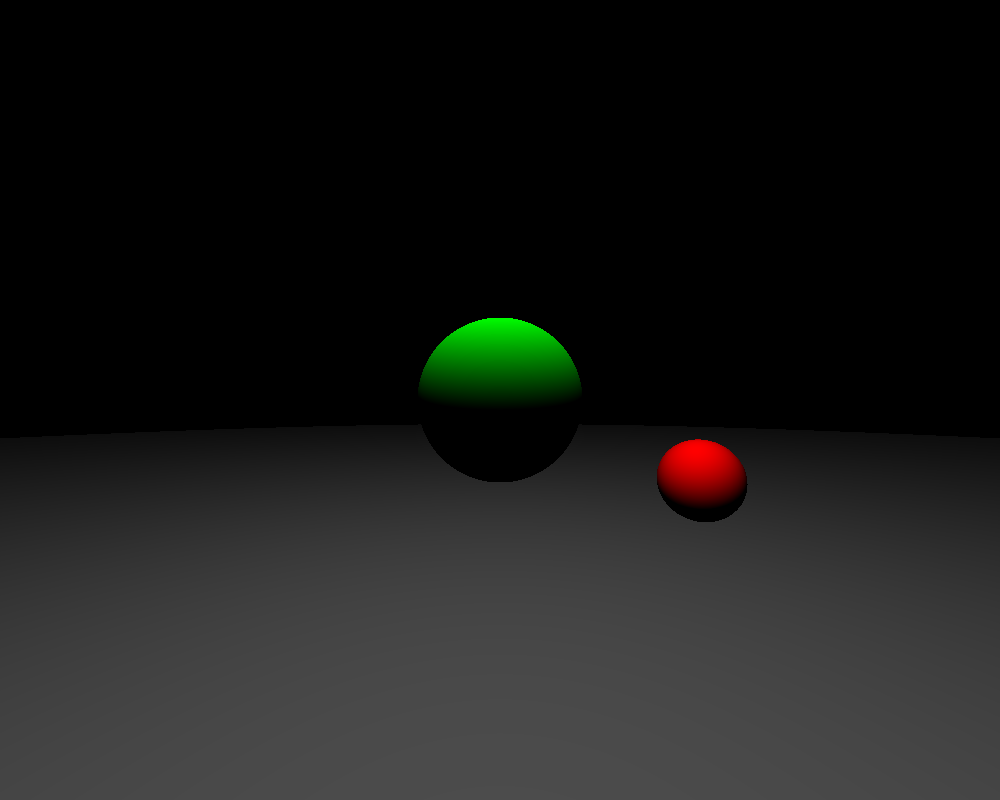
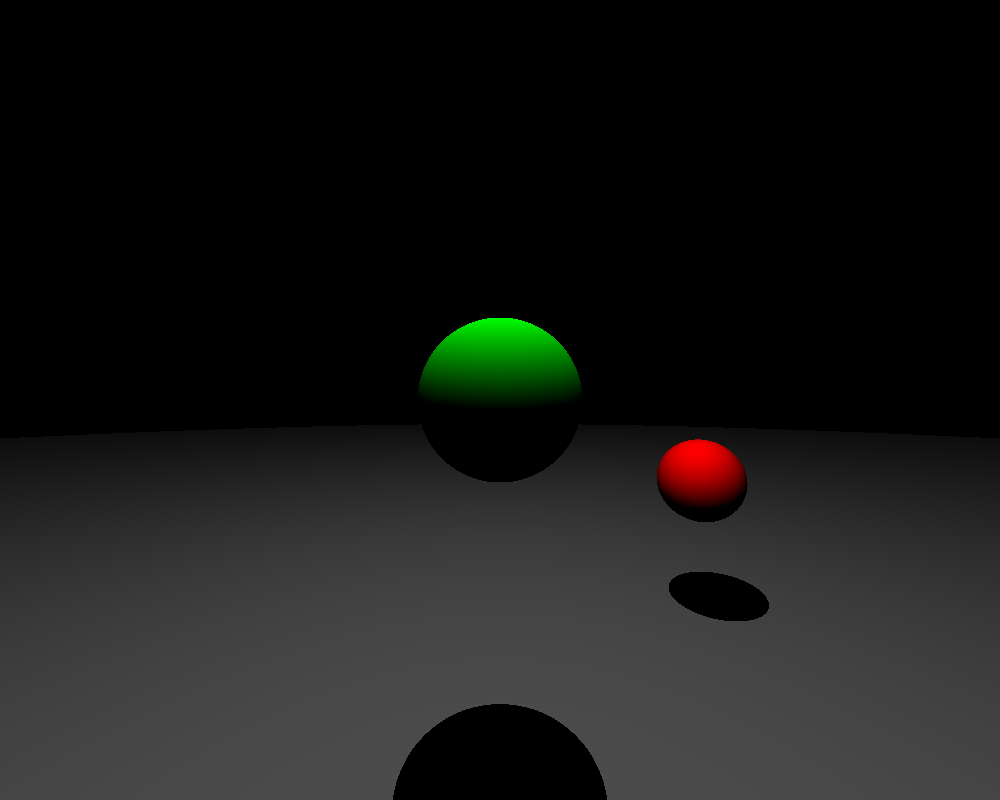
Added shadows on other objects.

Changed region(s): [[0.372, 0.875, 0.62, 1.0], [0.651, 0.6875, 0.775, 0.7812]]

diff --git a/src/ray.rs b/src/ray.rs
@@ -37,10 +37,10 @@ impl Ray {
         Ray::new(scene.camera_pos, Vector3::new(sensor_x, sensor_y, -1.0).normalize())
     }
     
-    fn get_closest_object_estimate(&self, objects: &Vec<Box<dyn Object>>) -> (Option<f32>, Option<usize>) {
+    fn get_closest_object_estimate(&self, objects: &Vec<Box<dyn Object>>, ignore: &[usize]) -> (Option<f32>, Option<usize>) {
         let mut closest = (None, None);
 
-        for (i, object) in objects.iter().enumerate() {
+        for (i, object) in objects.iter().enumerate().filter(|(i, _)| !ignore.contains(i)) {
             let distance_estimate = object.distance_estimate(self.position);
             if closest.0 == None || closest.0 > Some(distance_estimate) {
                 closest = (Some(distance_estimate), Some(i));
@@ -50,38 +50,30 @@ impl Ray {
     }
 
     // Returns index of object hit first if it did hit, and the position of hit
-    // ignore_objects is used when calculating shadows, telling it to ignore the parent object
-    pub fn march_until_hit(&mut self, objects: &Vec<Box<dyn Object>>) -> (Option<(usize, Point3<f32>)>, f32) {    // returns (Some(object index, point of hit), distance traveled)
-        self.position = self.origin;    // Reset position
+    // ignore is used when calculating shadows, telling it to ignore the parent object
+    pub fn march_until_hit(&mut self, objects: &Vec<Box<dyn Object>>, ignore: &[usize]) -> (Option<(usize, Point3<f32>)>, f32) {    // returns (Some(object index, point of hit), distance traveled)
         // Move forwards at least once, so that if radiating from the surface of an object it doesn't just sit there
-        // but we need to know rough distance from the object so we can get away
-        if let (Some(smallest_dist_est), _) = self.get_closest_object_estimate(objects) {
-            // move away from object
-            self.position -= self.direction * smallest_dist_est;
-            let mut distance_traveled = -smallest_dist_est;
-    
-            loop {
-                if let (Some(smallest_distance_estimate), Some(index)) = self.get_closest_object_estimate(objects) {
-                    // if smallest_distance_estimate > 100.0 {
-                    //     println!("Closest approach: {:?}", closest.0)
-                    // }
-    
-                    if smallest_distance_estimate < RAY_HIT_THRESHOLD && distance_traveled > RAY_HIT_THRESHOLD {
-                        return (Some((index, self.position)), distance_traveled)
-                    } else if distance_traveled > RAY_MAX_TRAVEL_DISTANCE {
-                        return (None, distance_traveled)     // Didn't hit any
-                    }
-        
-                    self.position += self.direction * smallest_distance_estimate;
-                    distance_traveled += smallest_distance_estimate;
-                } else {
-                    // No objects to hit
-                    return (None, distance_traveled)
+        self.position = self.origin + self.direction * RAY_HIT_THRESHOLD;
+        let mut distance_traveled = RAY_HIT_THRESHOLD;
+
+        loop {
+            if let (Some(smallest_distance_estimate), Some(index)) = self.get_closest_object_estimate(objects, ignore) {
+                // if smallest_distance_estimate > 100.0 {
+                //     println!("Closest approach: {:?}", closest.0)
+                // }
+
+                if smallest_distance_estimate < RAY_HIT_THRESHOLD {
+                    return (Some((index, self.position)), distance_traveled)
+                } else if distance_traveled > RAY_MAX_TRAVEL_DISTANCE {
+                    return (None, distance_traveled)     // Didn't hit any
                 }
+    
+                self.position += self.direction * smallest_distance_estimate;
+                distance_traveled += smallest_distance_estimate;
+            } else {
+                // No objects to hit
+                return (None, distance_traveled)
             }
-        } else {
-            // Don't do anything if there's no objects anyway
-            (None, 0.0)
         }
     }
 }

diff --git a/src/scene.rs b/src/scene.rs
@@ -32,31 +32,27 @@ impl Scene {
         // Check if a point is in shadow
         fn render_shadow(last_ray_end_position: Point3<f32>, light_pos: Point3<f32>, objects: &Vec<Box<dyn Object>>, parent_object: usize) -> Color {
             // println!("Casting shadow: {:?}", last_ray_end_position);
-            let light_vec = (light_pos - last_ray_end_position).normalize(); // vector from where the ray hit the object to light
+            let light_normal = (light_pos - last_ray_end_position).normalize(); // vector from where the ray hit the object to light
             let surface_normal = objects[parent_object].get_normal(last_ray_end_position);
 
-            // let light_amount = {    // Amount of light at point of contact 0 -> 1
-            //     if 
-            //     surface_normal.dot(&light_vec).max(0.0)
-            // };
-            let light_dot = surface_normal.dot(&light_vec);
+            let light_dot = surface_normal.dot(&light_normal);
+
+            // If dot product < 0, then it is a surface away from the light, so there won't be any objects blocking
+            // the light to this point, since it is not in light
+            if light_dot < 0.0 {
+                Color::black()
+            } else { // Cast ray towards light, and if it hits something then it is in shadow
+                let mut ray = Ray::new(last_ray_end_position, light_normal);
+                let (hit_data, distance_traveled) = ray.march_until_hit(objects, &[parent_object]);
+                if hit_data.is_some() { // If it hits something -> in shadow
+                    Color::black()
+                } else {
+                    *(objects[parent_object].get_color_ref()) * light_dot.abs()
+                }
+            }
             
 
-            *(objects[parent_object].get_color_ref()) * light_amount
-
-            
-            
-            // let mut ray = Ray::new(last_ray_end_position, direction);
-
-            // let (hit_info, distance_traveled) = ray.march_until_hit(objects);
-            // if let Some((index, hit_loc)) = hit_info {
-            //     // println!("Hit loc: {:?}\tray origin: {:?}", hit_loc, ray.origin);
-            //     true
-            // } else {
-            //     false
-            // }
-
-            // returns true if it hit something
+            // *(objects[parent_object].get_color_ref()) * light_amount
         }
         
         let mut image = DynamicImage::new_rgb8(self.width, self.height);
@@ -66,7 +62,7 @@ impl Scene {
             for y in 0..self.height {
                 let mut ray = Ray::create_prime(x, y, self);
 
-                let (hit_info, distance_traveled) = ray.march_until_hit(&self.objects);
+                let (hit_info, distance_traveled) = ray.march_until_hit(&self.objects, &[]);
 
                 if let Some((object_index, boundary_position)) = hit_info { // If it hit something, render
                     let render_color = render_shadow(boundary_position, self.lights[0].pos, &self.objects, object_index);

diff --git a/src/lighting.rs b/src/lighting.rs
@@ -25,6 +25,19 @@ pub struct Color {
 }
 
 impl Color {
+    pub fn new(r: f32, g: f32, b: f32, a: f32) -> Color {
+        Color {
+            r,
+            g,
+            b,
+            a,
+        }
+    }
+
+    pub fn black() -> Color {
+        Color::new(0.0, 0.0, 0.0, 1.0)
+    }
+
     pub fn get_image_rgba(&self) -> Rgba<u8> {
         Rgba([
             (self.r * 255.0).ceil() as u8,
